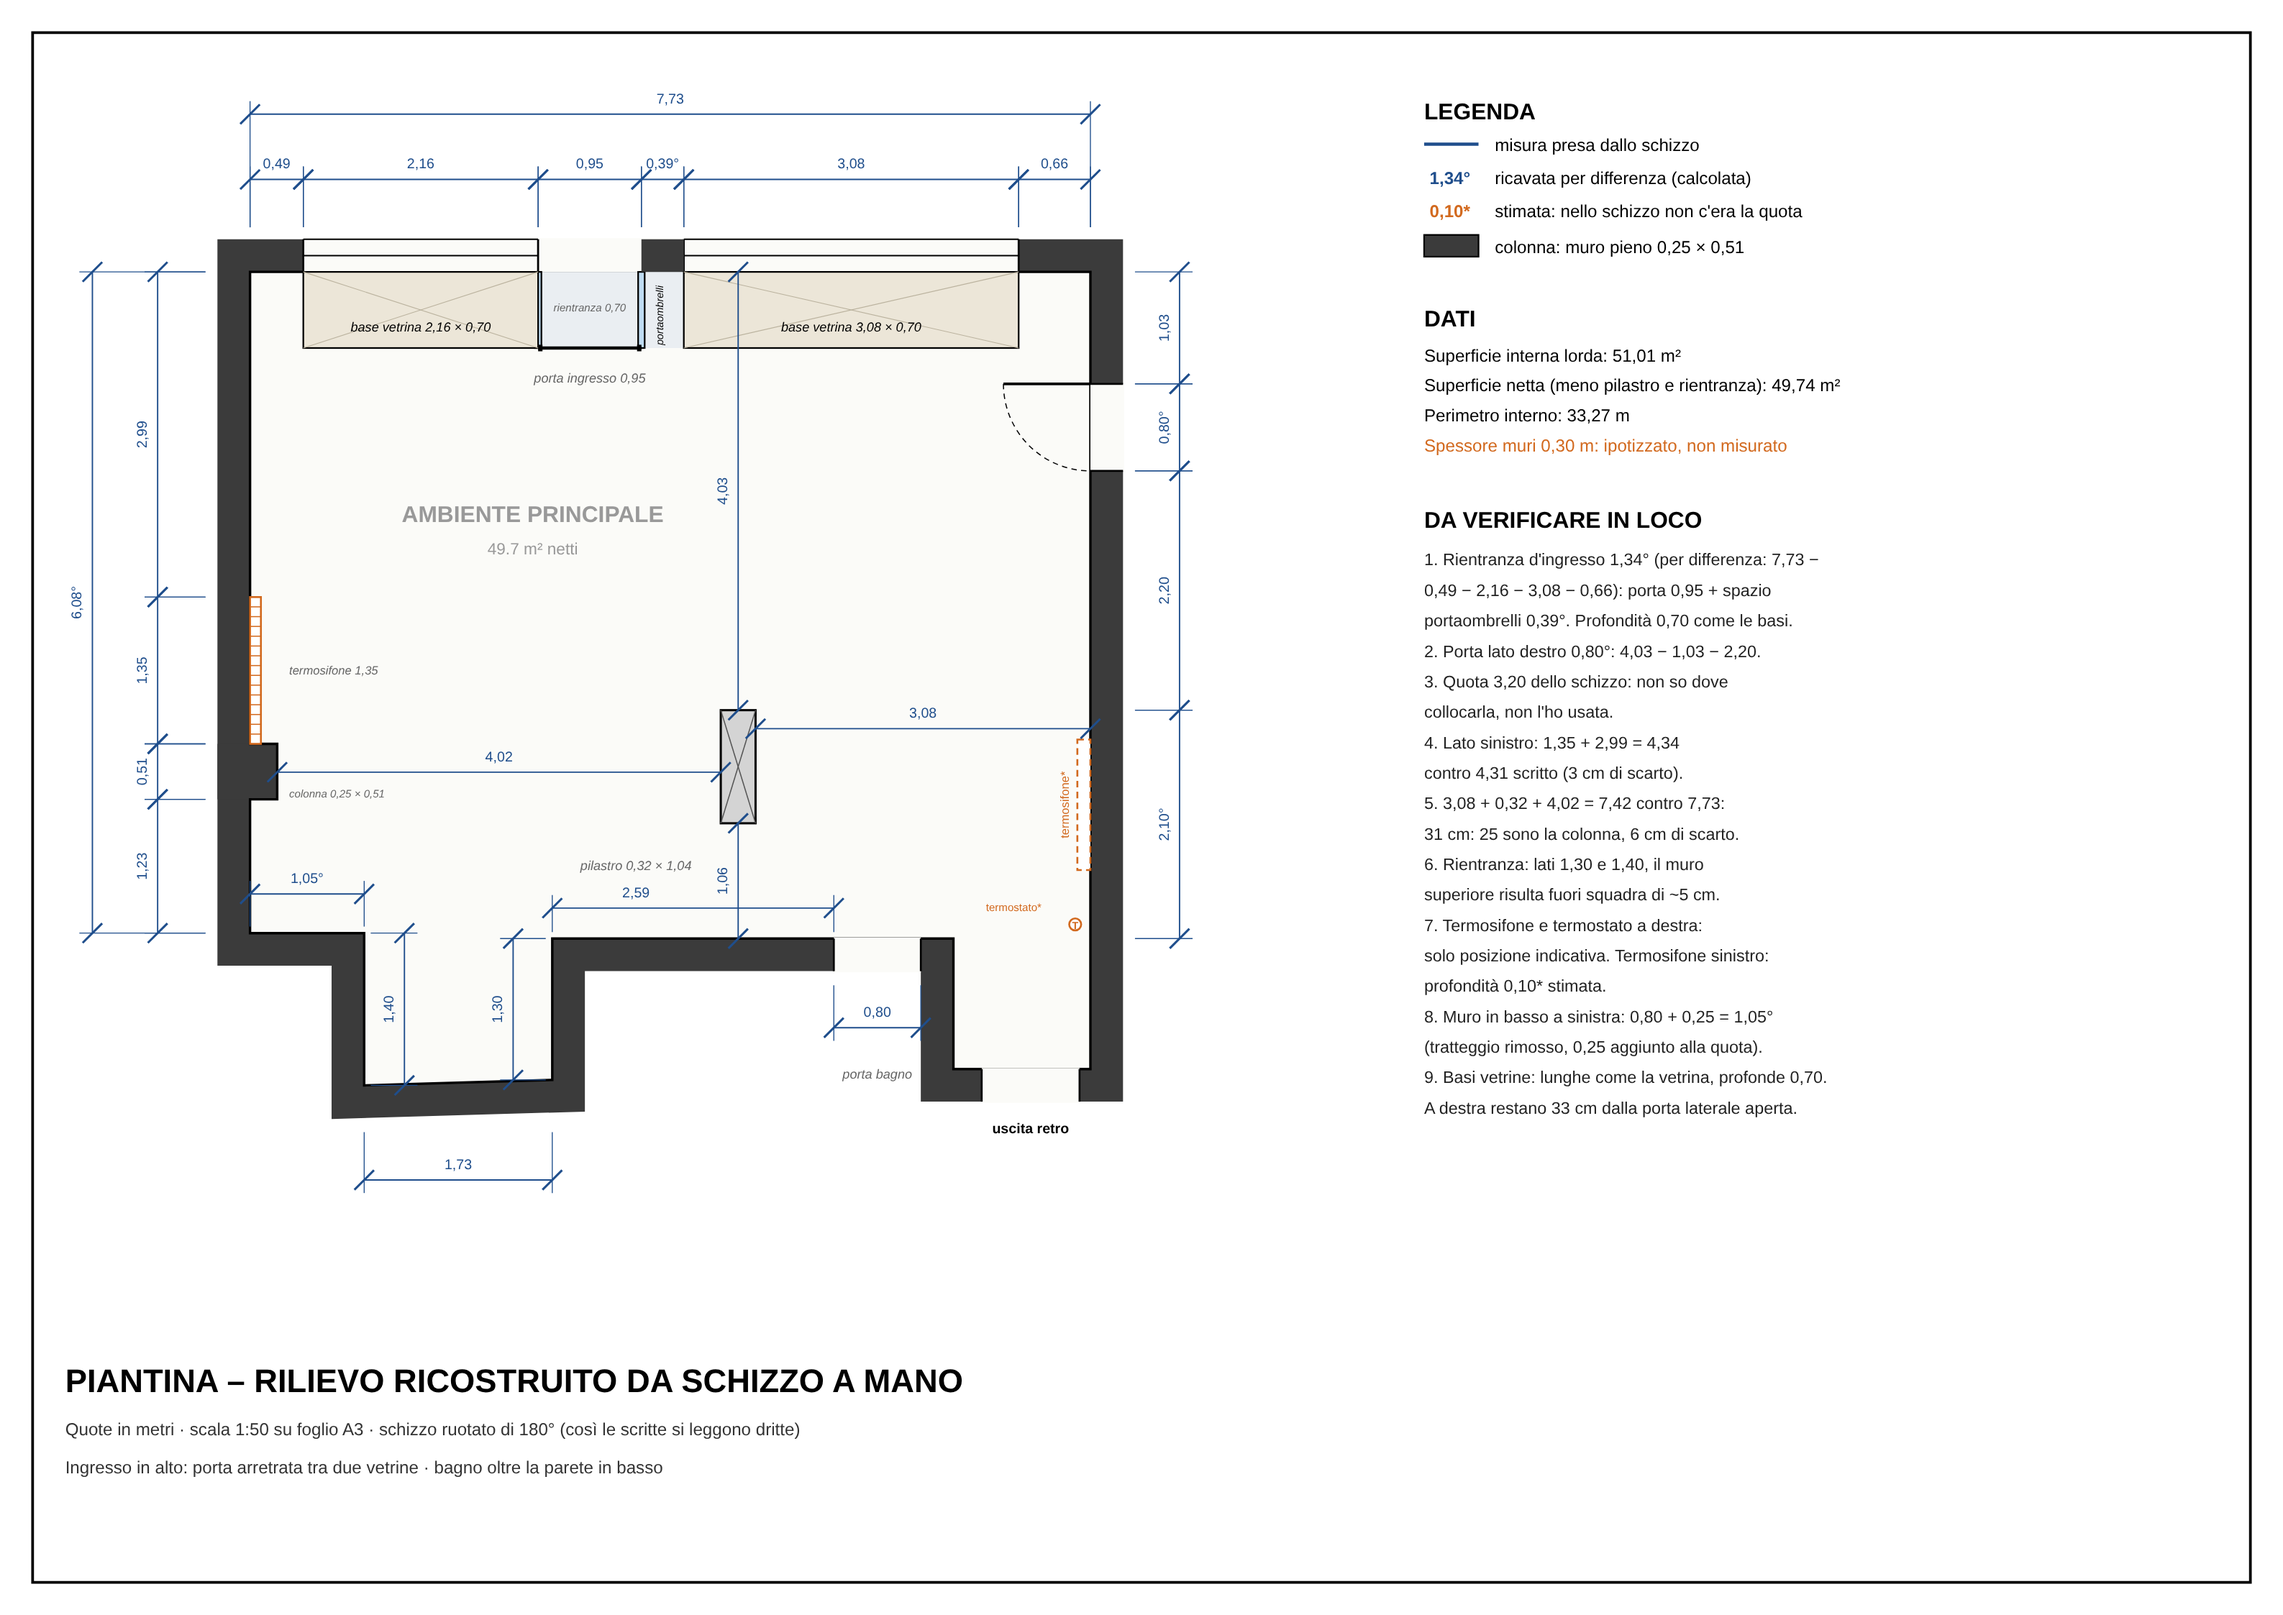
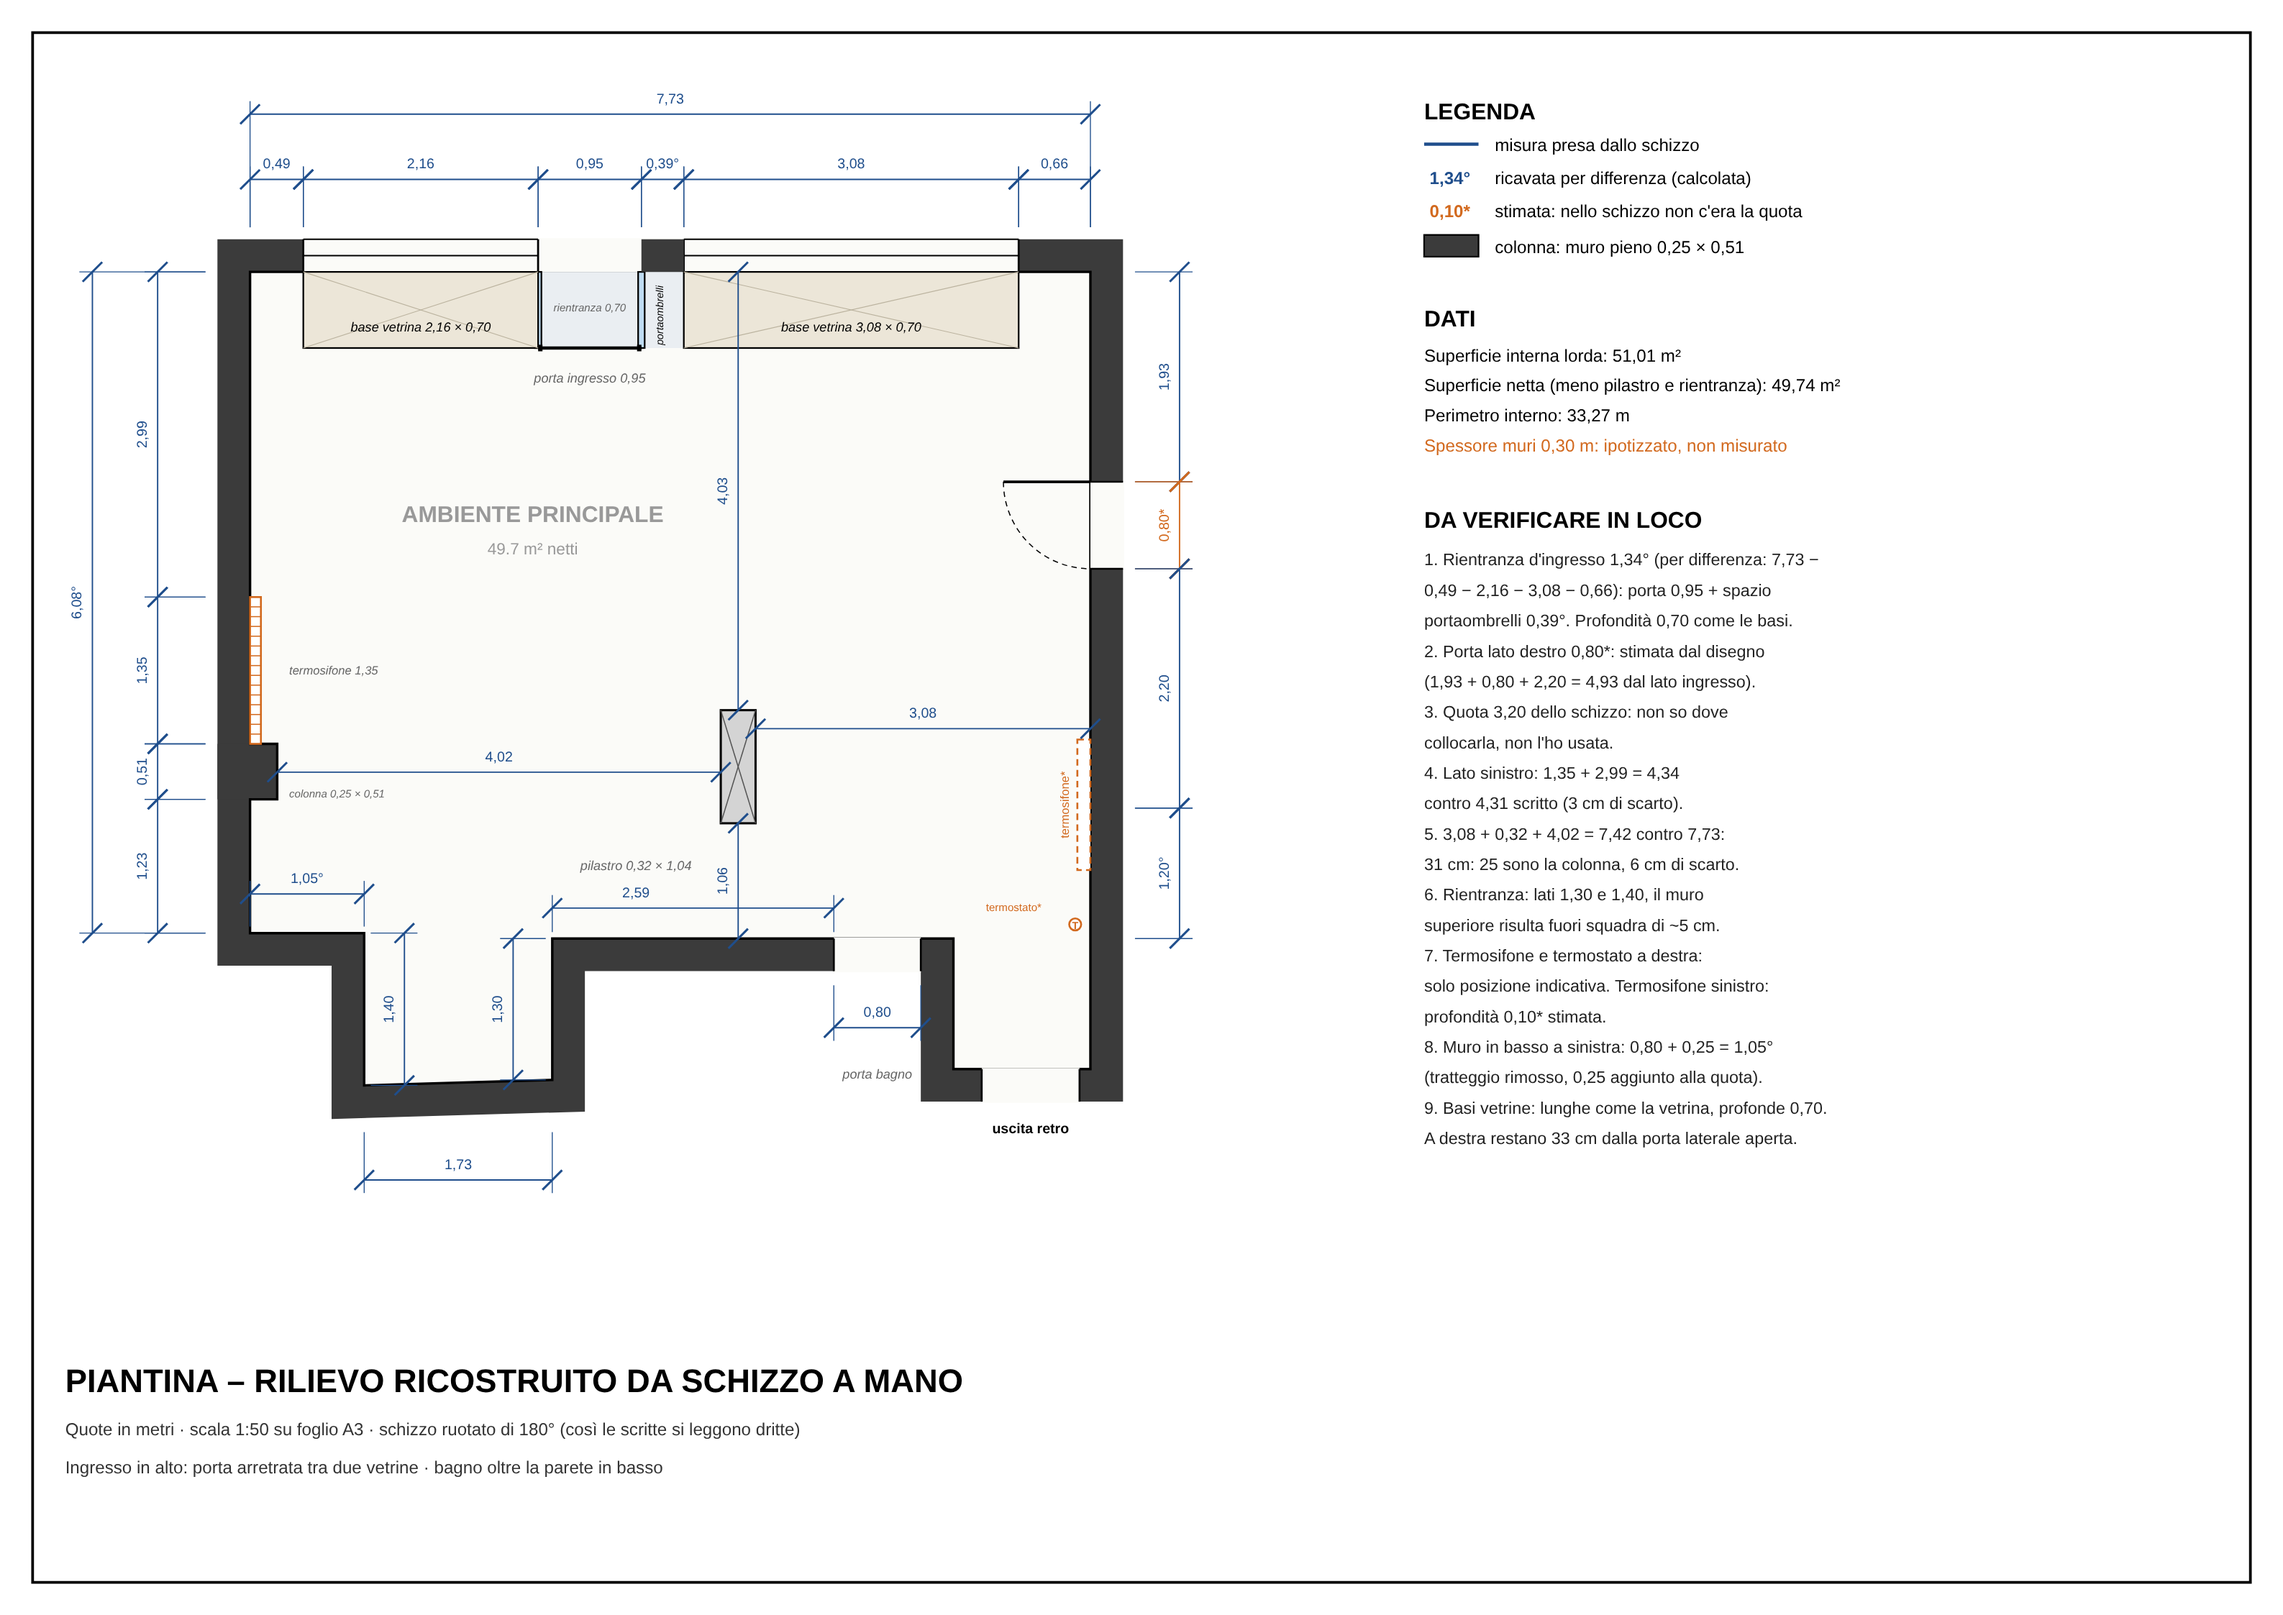
Corregge quota lato destro: 1,93 e porta laterale spostata
Claude-Session: https://claude.ai/code/session_012mEpG2XJd9CwTCZtepJEcC

Changed region(s): [[0.6238, 0.4052, 0.7798, 0.7168], [0.4679, 0.2182, 0.4991, 0.374]]

diff --git a/piantina/genera_piantina.py b/piantina/genera_piantina.py
@@ -148,10 +148,10 @@ rect(3.56, 0.67, 3.60, 0.73, fill="#000")
 # spazio portaombrelli: X' 3,60 -> 3,99 (0,39 ricavata)
 # chiuso verso la strada: muro pieno sul fronte (X' 3,60 -> 3,99)
 rect(3.60, -T, 3.99, 0.0, fill=WALL)
-# porta lato destro: Y' 1,03 -> 1,83 (0,80), cerniera lato ingresso, apre verso l'interno
-opening(W, 1.03, W + T + 0.01, 1.83, [(W, 1.03, W + T, 1.03), (W, 1.83, W + T, 1.83)])
-line(W, 1.03, W - 0.80, 1.03, "#000", 0.5)
-add(f'<path d="M {f(X(W-0.80))} {f(Y(1.03))} A {f(S*0.8)} {f(S*0.8)} 0 0 0 {f(X(W))} {f(Y(1.83))}" '
+# porta lato destro: Y' 1,93 -> 2,73 (0,80 stimata), cerniera lato ingresso, apre verso l'interno
+opening(W, 1.93, W + T + 0.01, 2.73, [(W, 1.93, W + T, 1.93), (W, 2.73, W + T, 2.73)])
+line(W, 1.93, W - 0.80, 1.93, "#000", 0.5)
+add(f'<path d="M {f(X(W-0.80))} {f(Y(1.93))} A {f(S*0.8)} {f(S*0.8)} 0 0 0 {f(X(W))} {f(Y(2.73))}" '
     f'fill="none" stroke="#000" stroke-width="0.2" stroke-dasharray="1 0.8"/>')
 # porta bagno: X' 5,37 -> 6,17 (stima)
 opening(5.37, 6.13 - 0.01, 6.17, 6.13 + T + 0.01, [(5.37, 6.13, 5.37, 6.13 + T), (6.17, 6.13, 6.17, 6.13 + T)])
@@ -207,8 +207,8 @@ dim_h(0, 7.73, -1.45, "7,73", yobj=-T - 0.05)
 
 # lato destro (verso l'esterno)
 xl = 8.55
-for (a, b, lab, k) in [(0, 1.03, "1,03", "m"), (1.03, 1.83, "0,80°", "m"), (1.83, 4.03, "2,20", "m"),
-                       (4.03, 6.13, "2,10°", "m")]:
+for (a, b, lab, k) in [(0, 1.93, "1,93", "m"), (1.93, 2.73, "0,80*", "e"), (2.73, 4.93, "2,20", "m"),
+                       (4.93, 6.13, "1,20°", "m")]:
     dim_v(a, b, xl, lab, xobj=W + T + 0.05, kind=k)
 
 # lato sinistro
@@ -263,7 +263,8 @@ notes = [
     "1. Rientranza d'ingresso 1,34° (per differenza: 7,73 −",
     "    0,49 − 2,16 − 3,08 − 0,66): porta 0,95 + spazio",
     "    portaombrelli 0,39°. Profondità 0,70 come le basi.",
-    "2. Porta lato destro 0,80°: 4,03 − 1,03 − 2,20.",
+    "2. Porta lato destro 0,80*: stimata dal disegno",
+    "    (1,93 + 0,80 + 2,20 = 4,93 dal lato ingresso).",
     "3. Quota 3,20 dello schizzo: non so dove",
     "    collocarla, non l'ho usata.",
     "4. Lato sinistro: 1,35 + 2,99 = 4,34",
